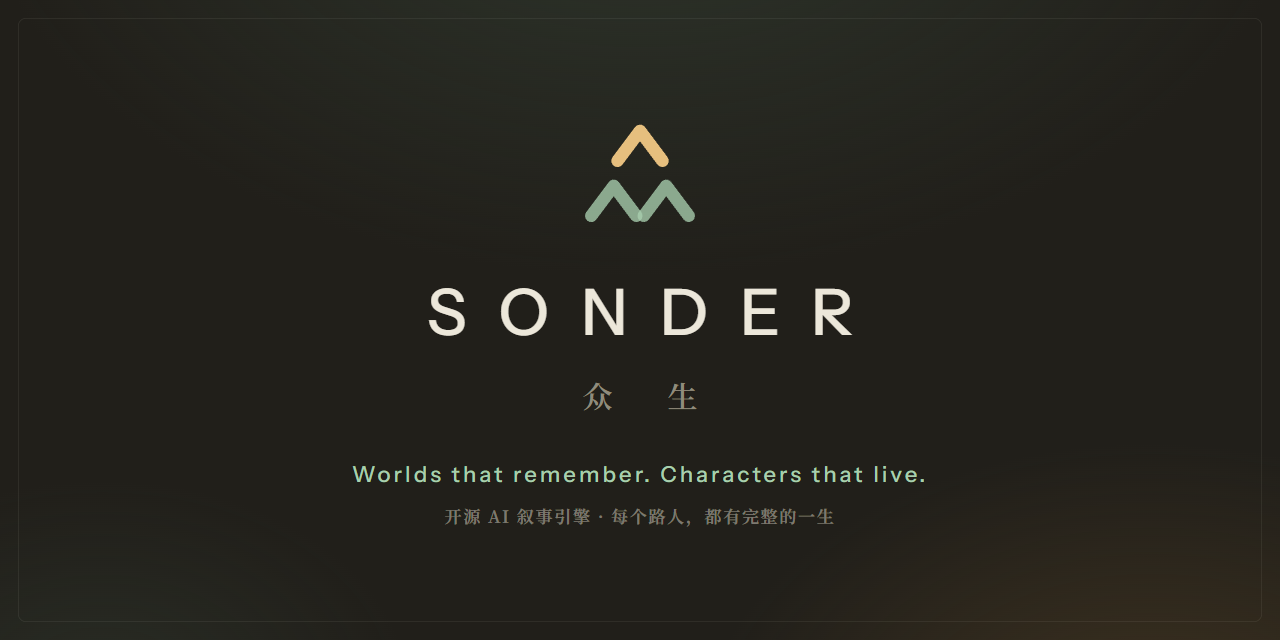
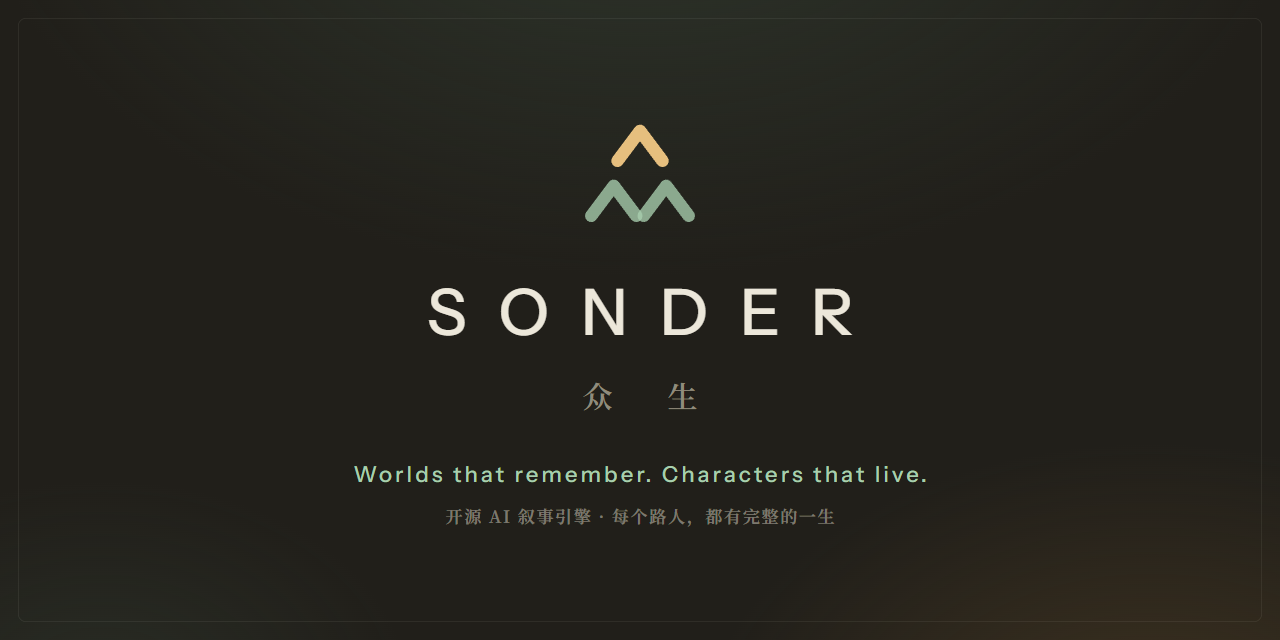
fix: English README screenshots + optical centering of letterspaced brand text
- README.md (EN) now uses an English-locale screenshot set (screen-*-en.png)
  captured from an English-content demo save; README.zh-CN.md keeps the
  Chinese set
- Social preview card, banner SVGs and the home hero lockup: letter-spacing
  leaves a trailing gap after the last glyph, which pushed SONDER / 众生
  visibly left of the mark. Replaced the text-indent compensation with a
  negative right margin (CSS) and explicit x offsets (SVG text-anchor)

Changed region(s): [[0.2812, 0.7188, 0.7188, 0.75], [0.3438, 0.7812, 0.625, 0.8438]]

diff --git a/src/ui/views/HomeView.vue b/src/ui/views/HomeView.vue
@@ -737,12 +737,14 @@ onMounted(async () => {
   opacity: 0.75;
 }
 
+/* letter-spacing leaves a trailing gap after the last glyph; the negative
+   right margin swallows it so the glyphs stay optically centered. */
 .brand-title {
   font-family: var(--font-serif-cjk);
   font-size: clamp(2.4rem, 4.5vw, 3.1rem);
   font-weight: 600;
   letter-spacing: 0.14em;
-  text-indent: 0.14em;
+  margin-right: -0.14em;
   color: var(--color-text);
   text-shadow: 0 0 40px color-mix(in oklch, var(--color-sage-400) 15%, transparent), 0 0 40px color-mix(in oklch, var(--color-amber-400) 10%, transparent);
 }
@@ -751,7 +753,7 @@ onMounted(async () => {
   font-size: 0.78rem;
   font-weight: 500;
   letter-spacing: 0.6em;
-  text-indent: 0.6em;
+  margin-right: -0.6em;
   text-transform: uppercase;
   color: color-mix(in oklch, var(--color-sage-400) 75%, var(--color-text-secondary));
 }

diff --git a/README.md b/README.md
@@ -54,13 +54,13 @@ the same discipline you'd expect from a game engine, applied to LLM-driven narra
 
 ## A Look Inside
 
-<img src=".github/assets/screen-game.png" alt="Main narrative panel — streaming prose with inline skill checks, dialogue, and inner thoughts" width="100%">
+<img src=".github/assets/screen-game-en.png" alt="Main narrative panel — streaming prose with dialogue, inner thoughts, and environment beats" width="100%">
 
 <table>
   <tr>
-    <td width="33%"><img src=".github/assets/screen-home.png" alt="Sanctuary home screen"></td>
-    <td width="33%"><img src=".github/assets/screen-social.png" alt="NPC relationship roster and detail"></td>
-    <td width="33%"><img src=".github/assets/screen-map.png" alt="Interactive world map with exploration states"></td>
+    <td width="33%"><img src=".github/assets/screen-home-en.png" alt="Sanctuary home screen"></td>
+    <td width="33%"><img src=".github/assets/screen-social-en.png" alt="NPC relationship roster and detail"></td>
+    <td width="33%"><img src=".github/assets/screen-map-en.png" alt="Interactive world map with exploration states"></td>
   </tr>
   <tr align="center">
     <td><em>A home that feels like a sanctuary</em></td>
